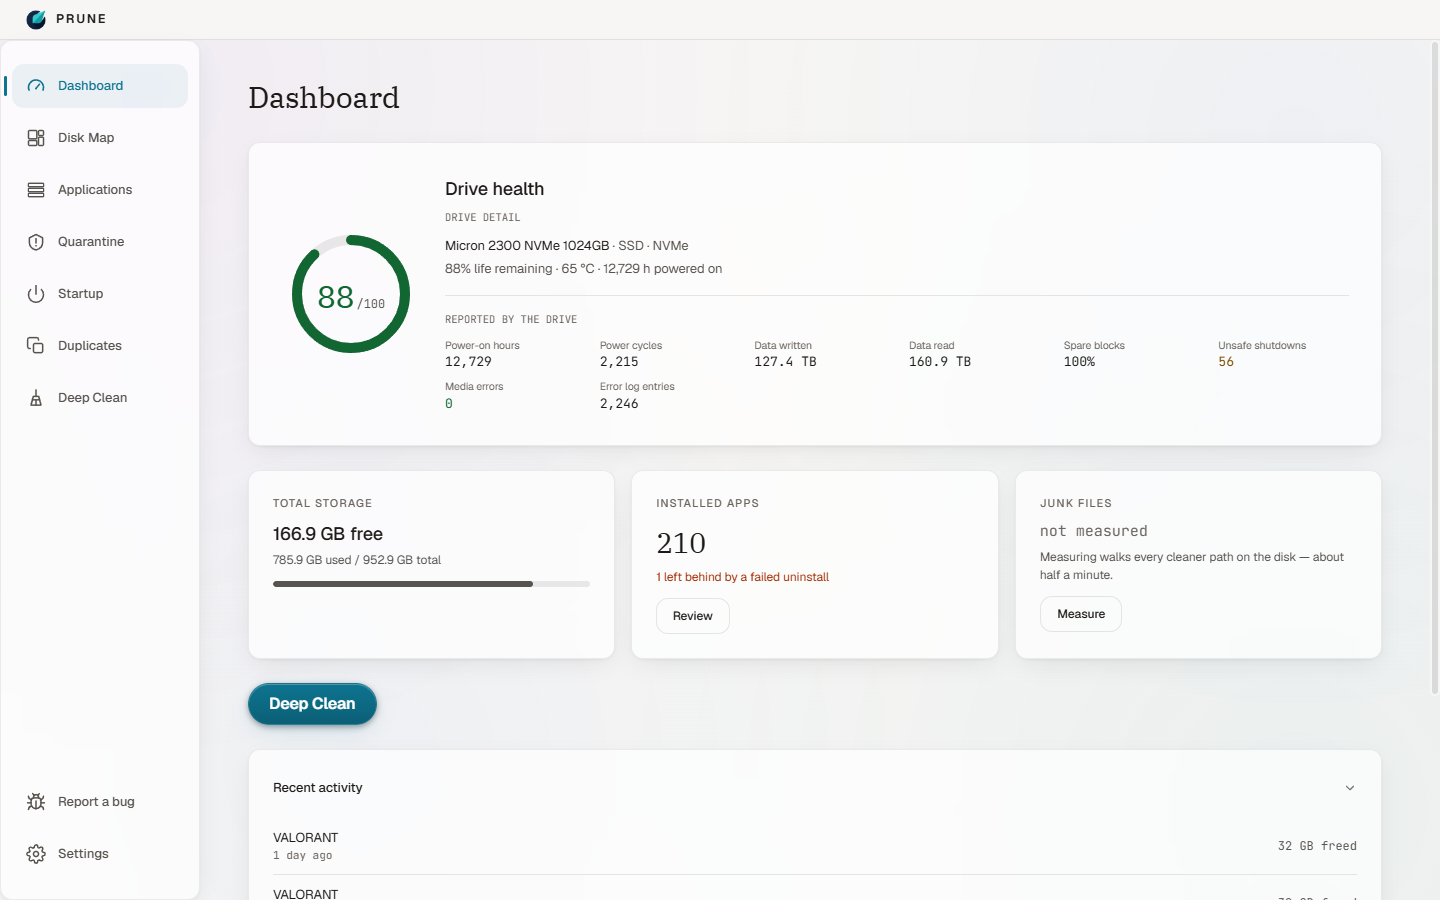
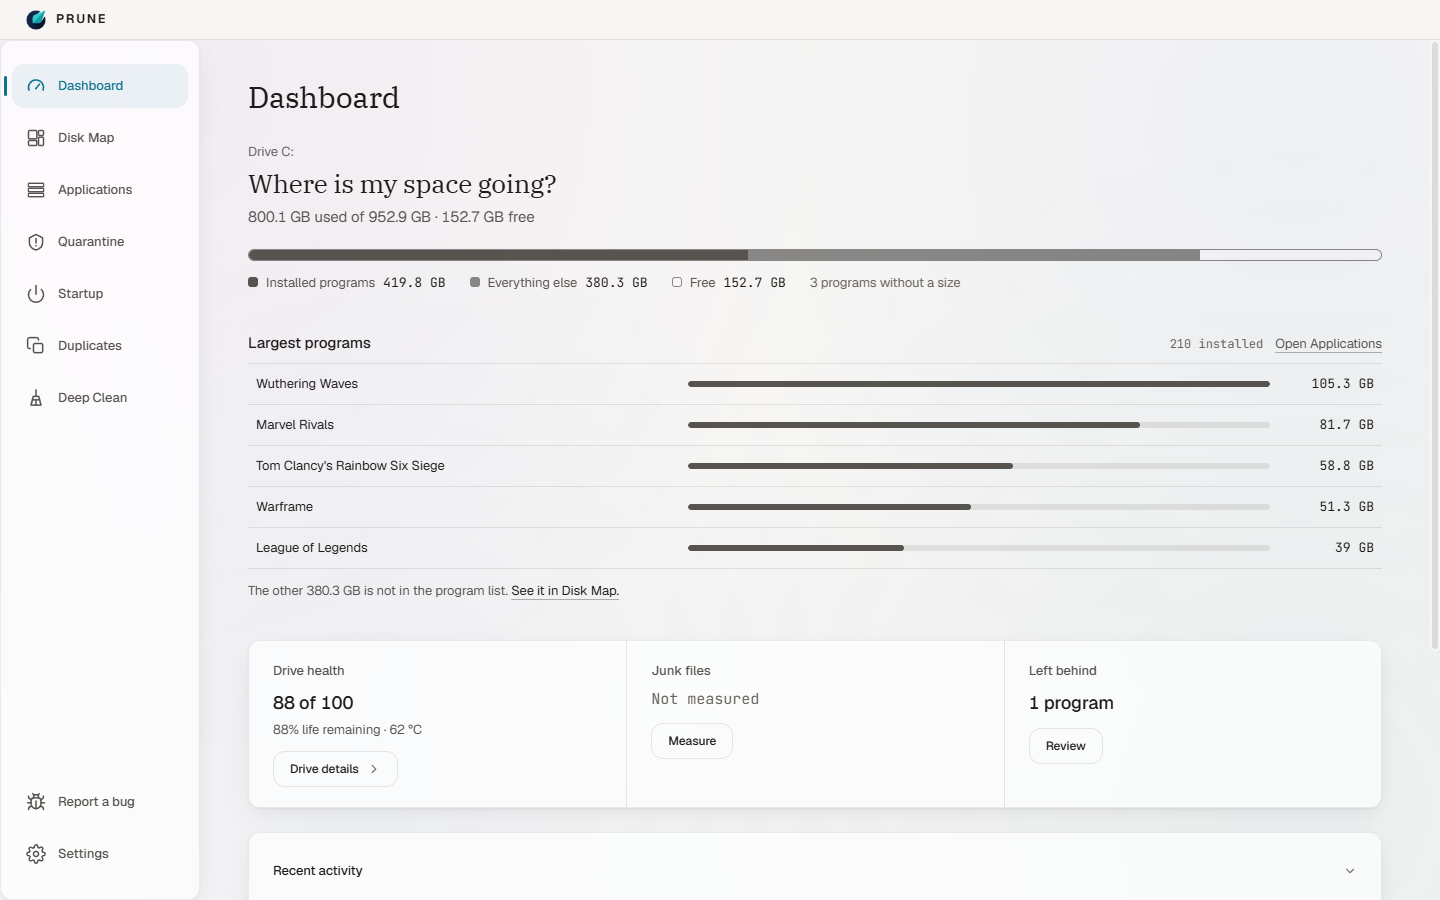
docs: retake the README screenshots for the redesigned Dashboard
Dashboard (dark and light), Applications, Startup and Deep Clean after a
scan. The Windows user name in launch paths is replaced with 'you' before
capture.

diff --git a/README.md b/README.md
@@ -3,7 +3,7 @@
 <picture>
   <source media="(prefers-color-scheme: dark)" srcset="docs/screenshots/dashboard-dark.png" />
   <source media="(prefers-color-scheme: light)" srcset="docs/screenshots/dashboard-light.png" />
-  <img src="docs/screenshots/dashboard-dark.png" alt="Prune's dashboard: real SMART drive health, free space, installed application count and recent activity" width="880" />
+  <img src="docs/screenshots/dashboard-dark.png" alt="Prune's dashboard, answering where the disk space is going: a bar splitting the drive into installed programs, everything else and free space, the five largest programs, and a quiet row for drive health, junk files and programs left behind" width="880" />
 </picture>
 
 <br/>
@@ -200,7 +200,7 @@ anything leaves the app.
 </tr>
 <tr>
 <td width="50%"><img src="docs/screenshots/startup-dark.png" alt="The Startup screen: 56 sign-in entries grouped by registry hive and Startup folder, showing which are enabled and which are running now" /></td>
-<td width="50%"><img src="docs/screenshots/dashboard-light.png" alt="The dashboard in the light theme, showing drive health and storage cards on a light ground" /></td>
+<td width="50%"><img src="docs/screenshots/dashboard-light.png" alt="The dashboard in the light theme: the same space bar, largest programs and quiet row on a light ground" /></td>
 </tr>
 <tr>
 <td align="center"><b>Startup</b><br/><sub>Grouped by where an entry lives, because that decides how to remove it</sub></td>
